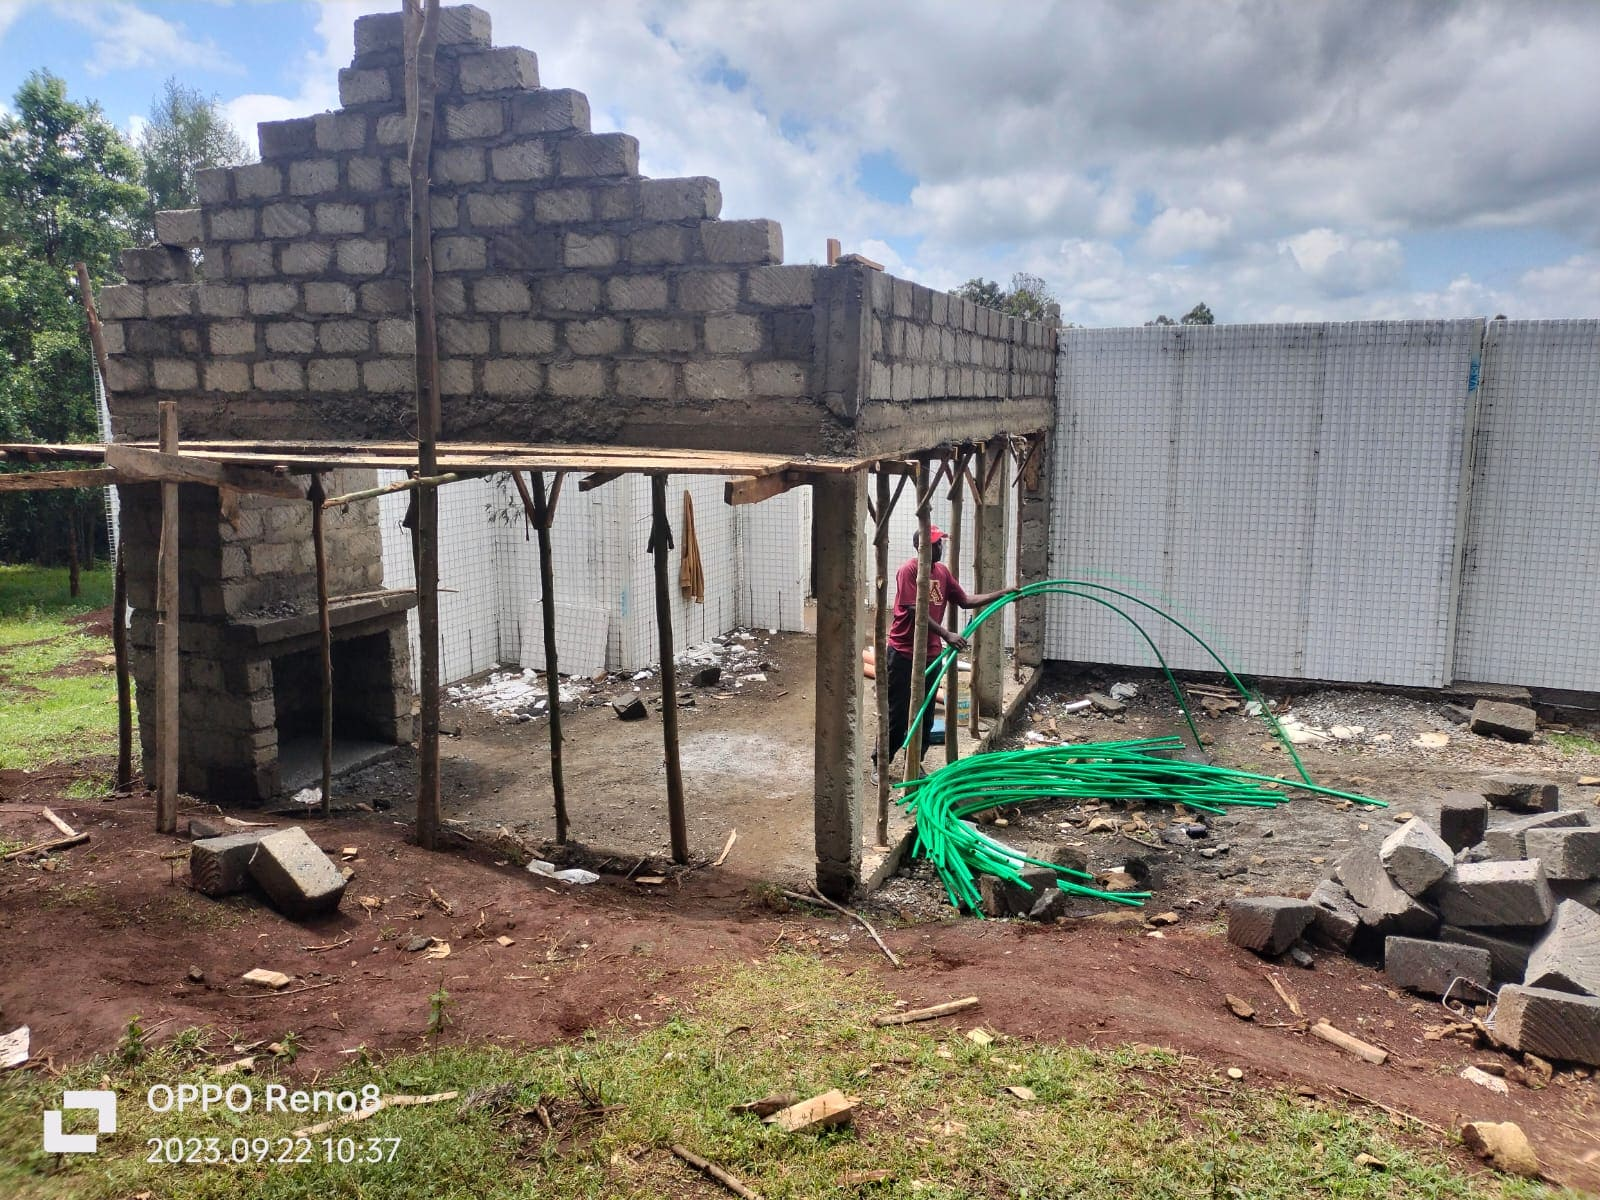
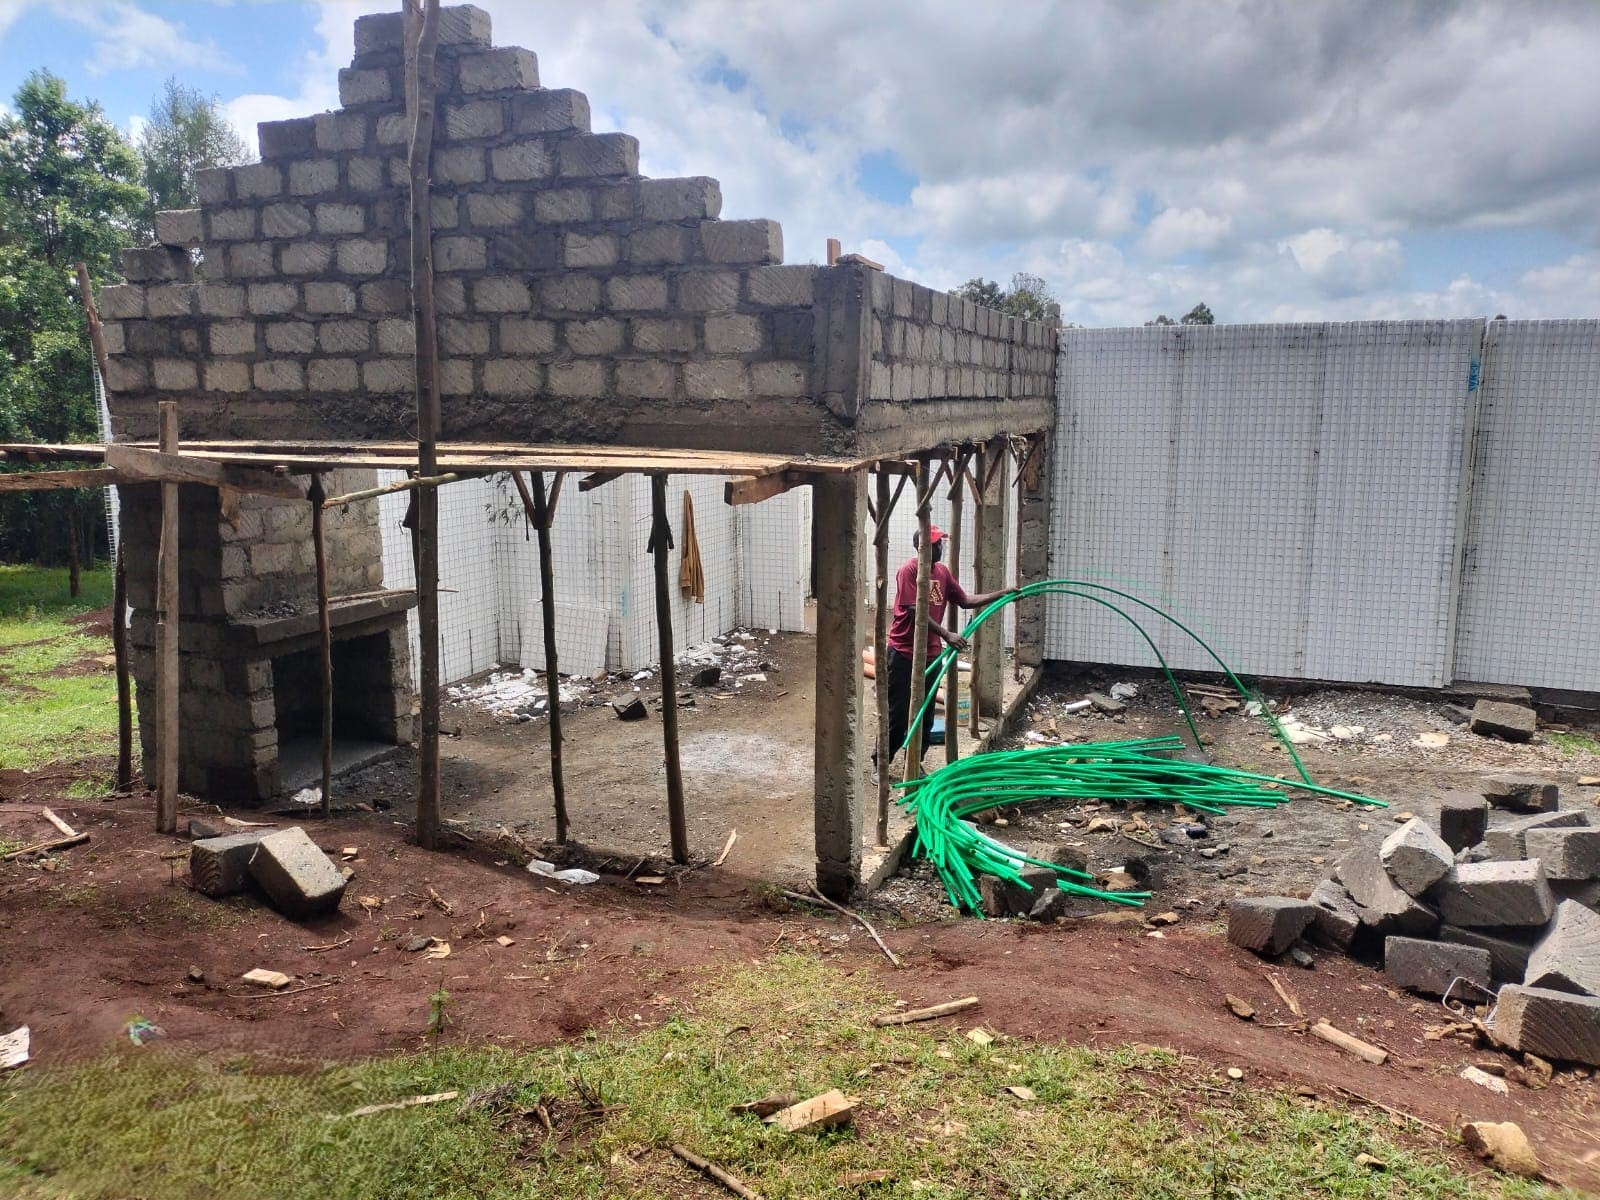
changed email to .ke

Changed region(s): [[0.0, 0.8325, 0.2812, 1.0]]

diff --git a/src/app/contact/page.tsx b/src/app/contact/page.tsx
@@ -16,7 +16,7 @@ const ContactPage = () => {
           description="Find us at our office in Kiambu, Kenya."
           address="Room F10, 1st Floor, Residential Wing, K-Unity Building - Kiambu Town"
           phone={footerDetails.telephones.join(" / ")}
-          email="info@bbsltd.co.ke"
+          email="info@bbsltd.ke"
         />
       </Container>
     </>

diff --git a/src/components/FAQ.tsx b/src/components/FAQ.tsx
@@ -27,7 +27,7 @@ const FAQ: React.FC = () => {
             href="mailto:"
             className="mt-3 block text-xl lg:text-4xl text-secondary text-[#991212] font-semibold hover:underline text-left"
           >
-            info@bbsltd.co.ke
+            info@bbsltd.ke
           </a>
         </div>
 

diff --git a/src/data/footer.ts b/src/data/footer.ts
@@ -25,7 +25,7 @@ export const footerDetails: {
       url: "/portfolio",
     },
   ],
-  email: "info@bbsltd.co.ke",
+  email: "info@bbsltd.ke",
   telephones: ["+254 722 333324", "+254 114 400596"],
   socials: {
     x: "https://x.com/BenchmarkBuild4",
